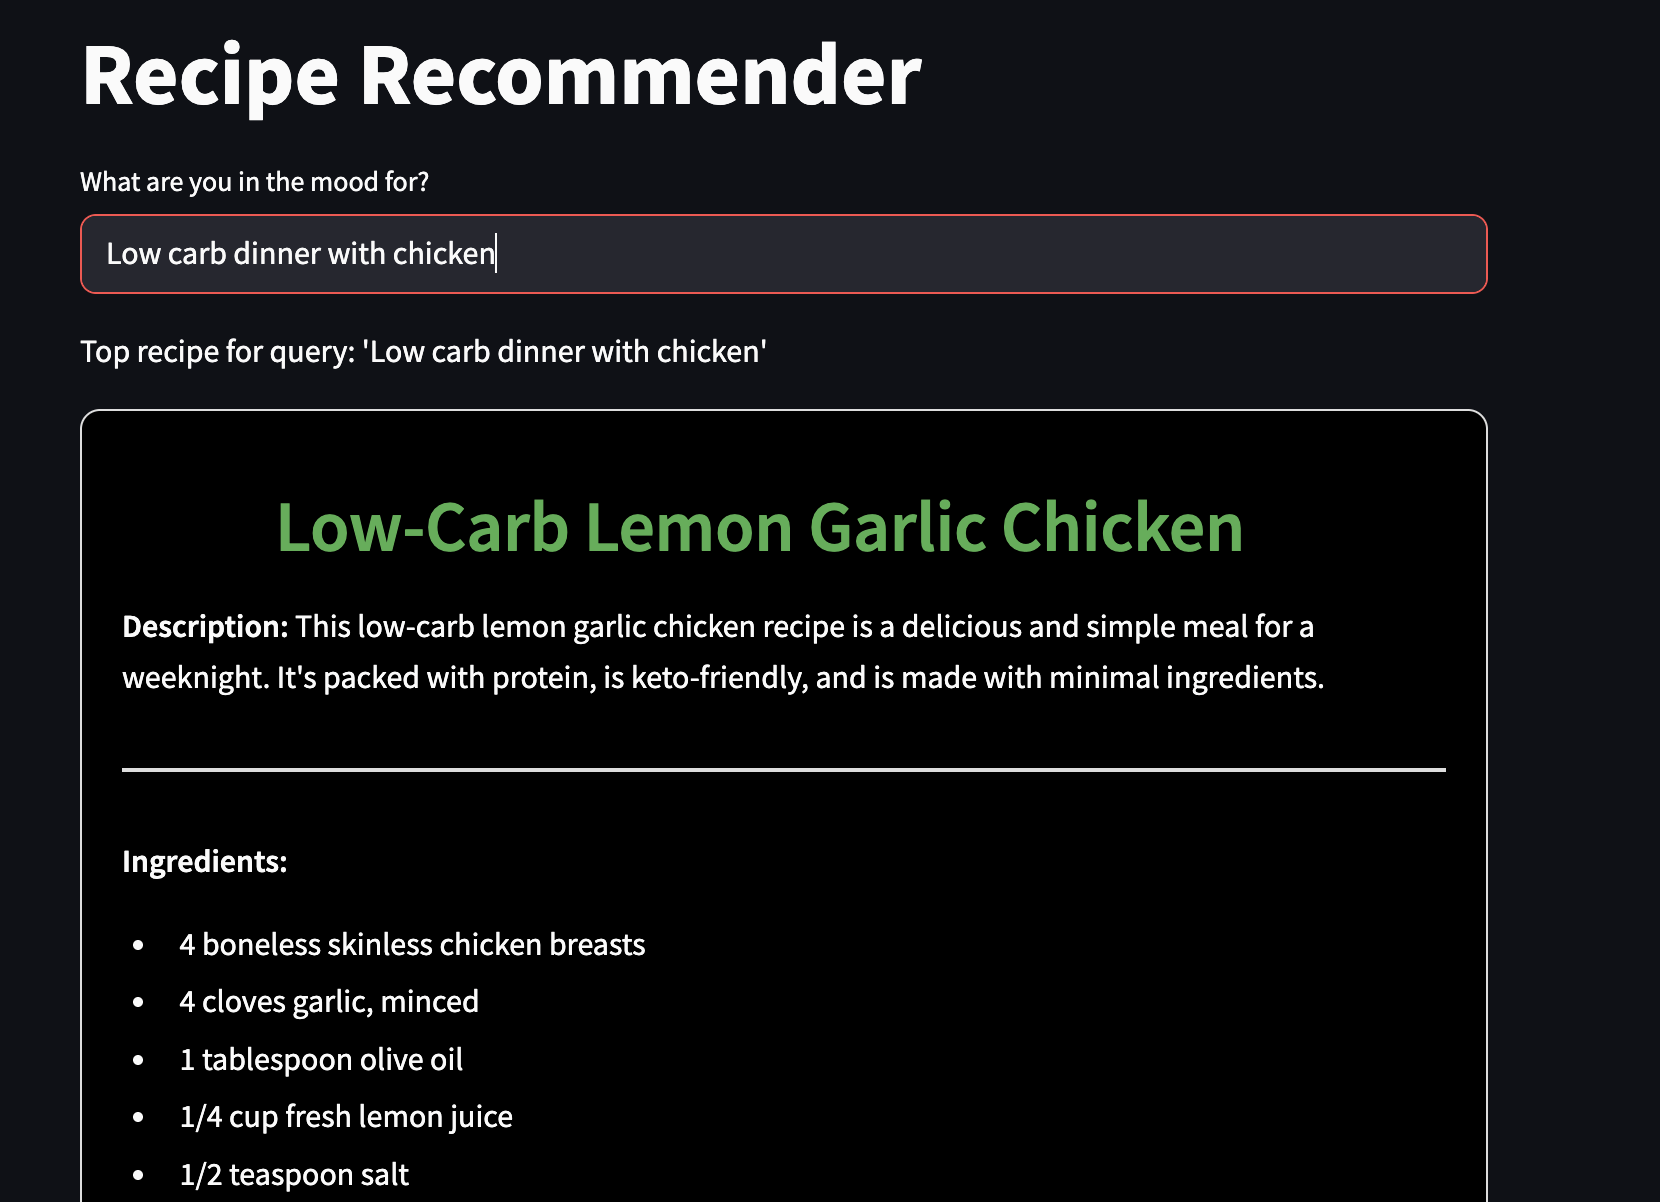
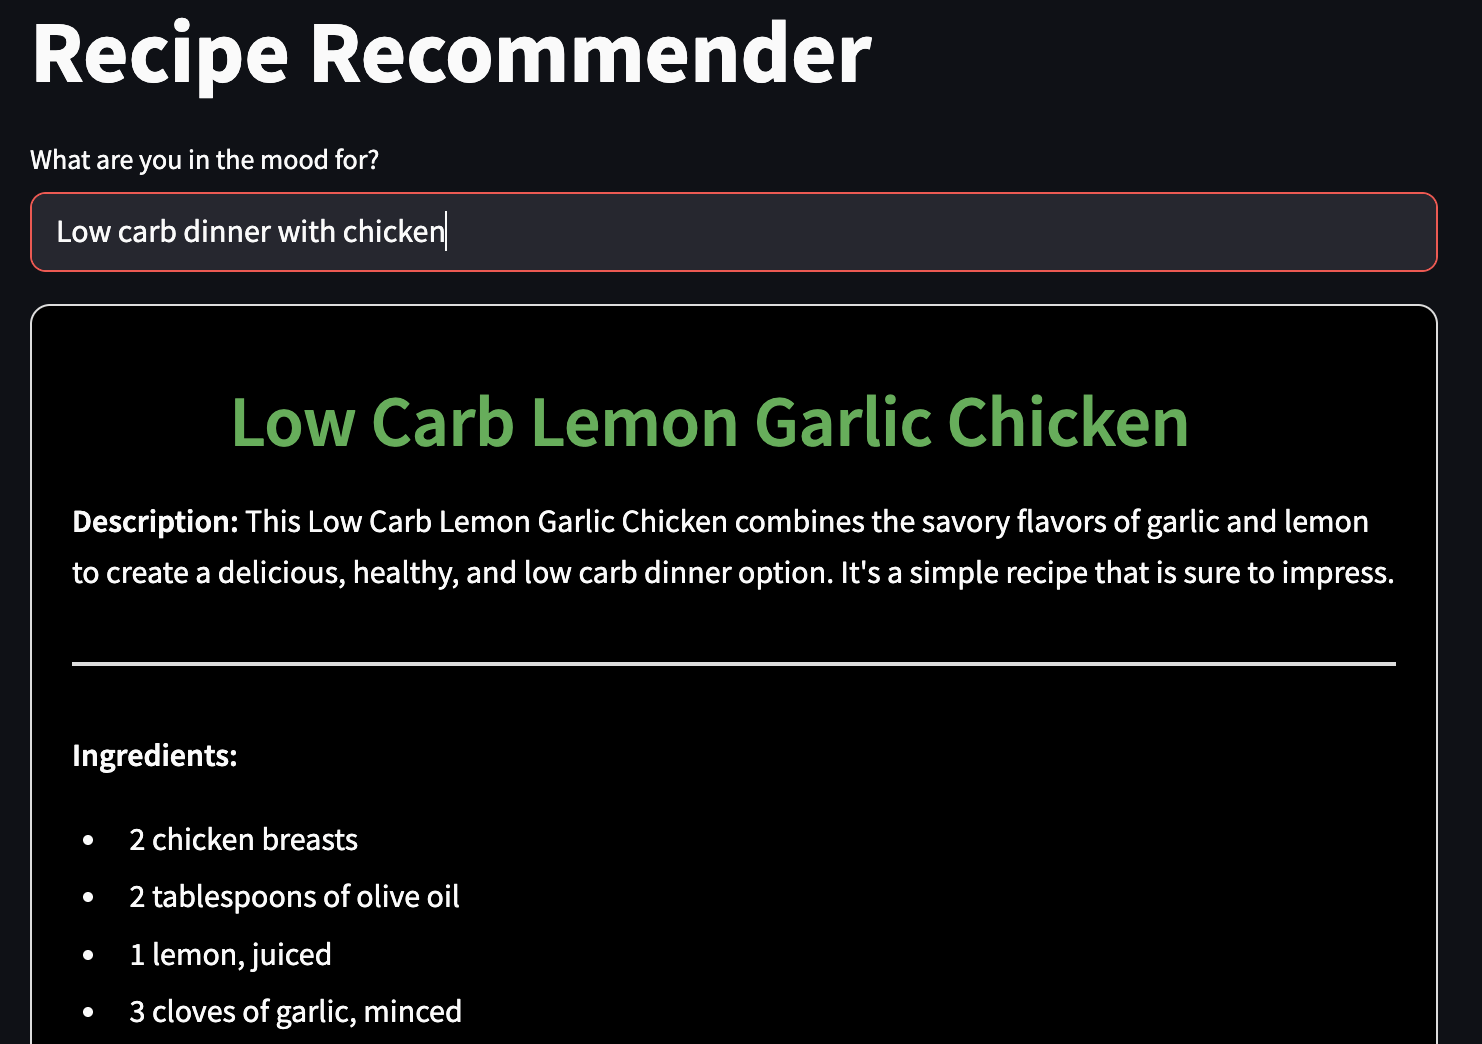
remove redundant message

diff --git a/main.py b/main.py
@@ -41,7 +41,6 @@ query = st.text_input("What are you in the mood for?", placeholder="e.g., A quic
 
 # Display results when the user submits a query
 if query:
-    st.write(f"Top recipe for query: '{query}'")
     top_recipe = start_agent(query)
 
     # Style the recipe like a cooking recipe
